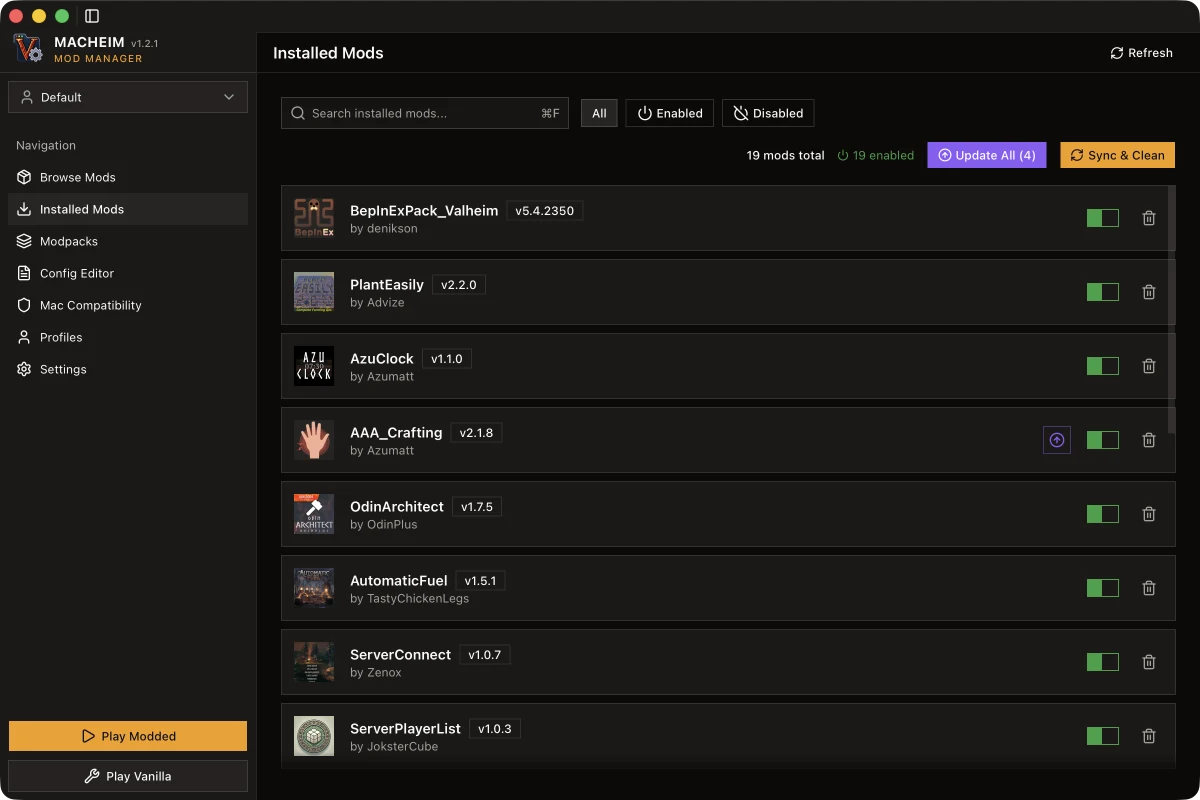
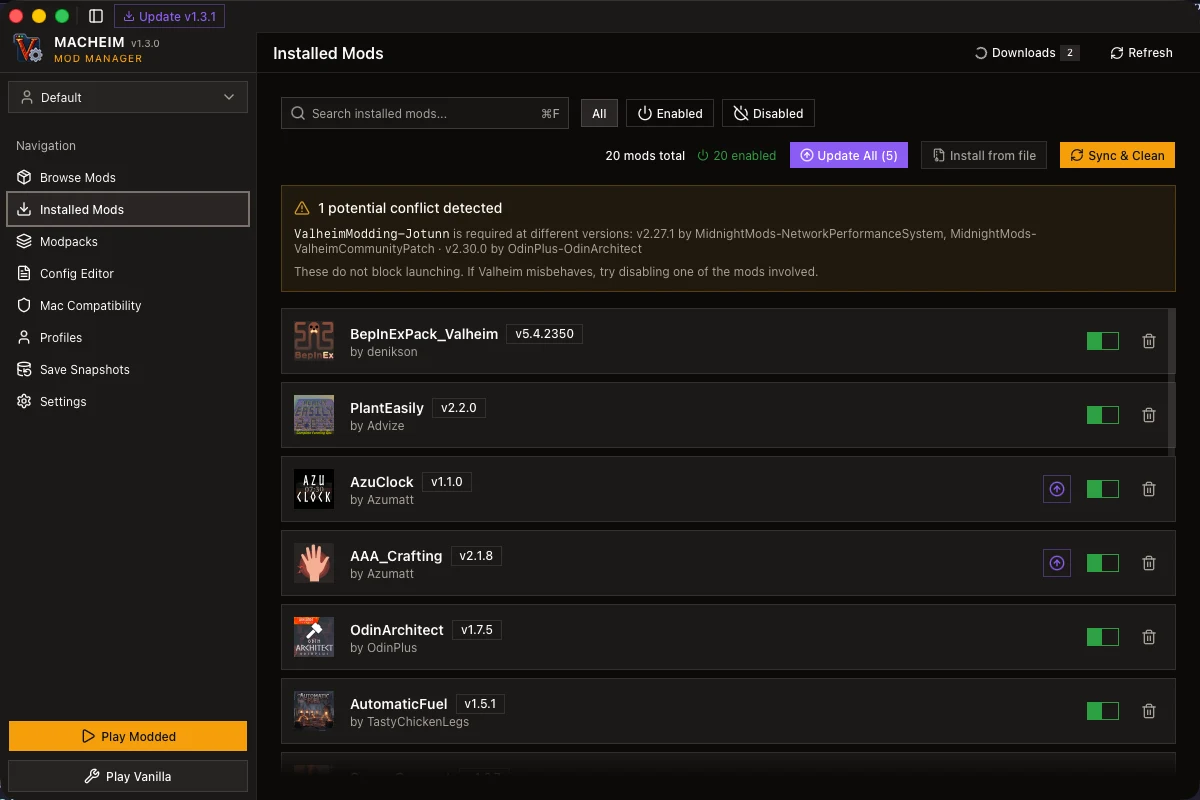
docs: refresh screenshots and add downloads sheet
Re-capture every page with the updater button now visible in the sidebar,
and add a Downloads sheet capture with a representative queue. Document the
capture scaffolding needed for both transient states.

diff --git a/screenshots/README.md b/screenshots/README.md
@@ -11,6 +11,7 @@ running app at a 1200×800 window and shipped as WebP (see "Why WebP" below).
 | `modpacks.webp`          | Modpacks                       |
 | `config-editor.webp`     | Config Editor with a file open |
 | `mac-compatibility.webp` | Mac Compatibility              |
+| `downloads-sheet.webp`   | Downloads sheet with a queue   |
 
 ## Capturing
 
@@ -76,6 +77,26 @@ Revert the file when done. The same trick can force an overlay open (for example
 `ModGrid.tsx` can select the first package to screenshot the mod detail panel),
 but always restore the source afterwards — these edits are capture scaffolding,
 not features.
+
+## Update button and Downloads sheet
+
+Two parts of the UI only exist in transient states, so capturing them takes a
+little staging:
+
+- **Updater button** (sidebar titlebar): it renders only while `status` is
+  `available`, `downloading` or `ready`. Scaffold `updaterStore` with
+  `status: "available"` and a plausible `version`, and push
+  `STARTUP_CHECK_DELAY_MS` past the capture window so the real background check
+  does not flip the state (and fire an update toast) while you shoot.
+- **Downloads sheet**: open it (`downloadStore` `panelOpen: true`) and seed
+  `items` with representative rows — downloading, queued, installed history and
+  a failed row — since the real backend queue is usually empty. Block
+  `setSnapshot` so the empty queue does not wipe the seed, and hide
+  `ProgressOverlay` so the bottom status card stays out of the frame.
+
+These are hook/store initial states, which Vite's Fast Refresh may preserve
+instead of applying. Touch `main.tsx` (any comment change) to force a full
+reload, then revert every scaffold file before committing.
 
 ## Why WebP
 
